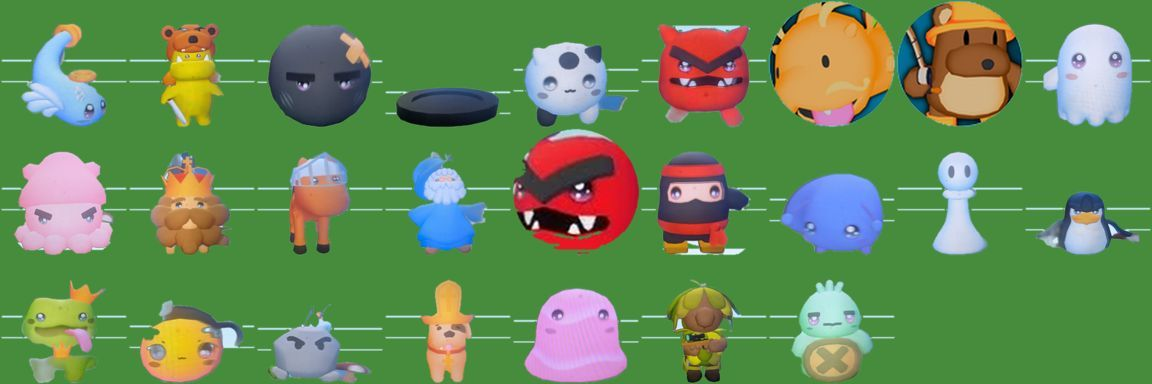
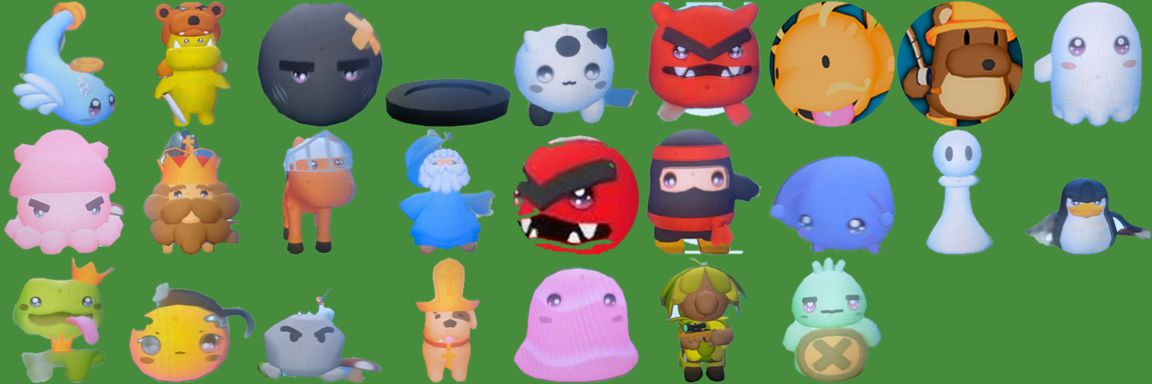
fin-battle: RESUME (cut off) + qa_ui/qa_motion logs + cutout sheet

diff --git a/rebuild/tools/fin_battle/cutout.py b/rebuild/tools/fin_battle/cutout.py
@@ -13,10 +13,10 @@ for f in sorted(glob.glob(SRC + '/*_w.png')):
     for y in range(h):
         px = im[y][inner[y]][:, :3]
         bg[y] = np.median(px, axis=0) if len(px) else bg[y - 1]
-    from scipy.ndimage import median_filter
-    bg = median_filter(bg, size=(21, 1), mode='nearest')
-    d = np.linalg.norm(im[:, :, :3] - bg[:, None, :], axis=2)
-    keep = np.ones((h, w), bool); keep[r >= .835] = False
+    d = np.full((h, w), 1e9)
+    for o in range(-3, 4):
+        b2 = np.roll(bg, o, axis=0); d = np.minimum(d, np.linalg.norm(im[:, :, :3] - b2[:, None, :], axis=2))
+    keep = np.ones((h, w), bool); keep[r >= .79] = False
     # flood fill from the inner ring through background-like pixels
     seen = np.zeros((h, w), bool); q = deque()
     for y, x in zip(*np.where((r > .82) & (r < .86))):
@@ -29,6 +29,9 @@ for f in sorted(glob.glob(SRC + '/*_w.png')):
                 seen[ny, nx] = True; q.append((ny, nx))
     # stray background specks the fill could not reach (enclosed by the ring) go too
     keep &= ~((d < TOL * .8) & (r > .6))
+    from scipy.ndimage import label, binary_opening
+    k2 = binary_opening(keep, iterations=2); lab, n = label(k2)
+    if n: sizes = np.bincount(lab.ravel()); sizes[0] = 0; big = sizes.argmax(); keep = keep & (lab == big) | (keep & np.isin(lab, np.where(sizes > sizes[big] * .15)[0]))
     a = Image.fromarray((keep * 255).astype(np.uint8)).filter(ImageFilter.MinFilter(3)).filter(ImageFilter.GaussianBlur(.7))
     out = Image.fromarray(im.astype(np.uint8)); out.putalpha(a)
     bb = out.getbbox(); out = out.crop(bb) if bb else out

diff --git a/rebuild/research/polish_report.md b/rebuild/research/polish_report.md
@@ -423,7 +423,19 @@ desktop 1366x900 qa_battle3d --slow PASS (fights 2/2, 0 errors; 4 'tap missed ->
 Fix 58076ec: build-data RE_3D now sees CM.battle3d, so Battle Chess keeps its lobby 3D tag (a rebuild of index.js had dropped it).
 Audit notes so far: cu (11 modes): our pieces are round tokens (disc + team ring) while the video shows standing chibi characters with a red outline on enemies -> plan: cutout set (cutout.py) as billboards + team-colour ground ring, island trees/rocks, slightly lower camera.
 robloxTable: video has a blocky Roblox avatar sitting across the table and a dim brick/wood room -> add avatar + walls.
-RESUME 11:20 AM ET: Battle Chess = tested, merging wip/3d-polish -> main next; then audit batch 1 (cu cutouts + robloxTable avatar) on view3d.js (pull main first). Audit baseline shots for jXOg/EqOw/tm24/OFtV/d8pJ/SMOX done, rest running.
+RESUME 11:25 AM ET (CUT OFF, usage out). wip/3d-polish = 134b237 (NOT on main). Contents: 58076ec Battle Chess fixes (tested), 1caf3b6 merge of main, 134b237 untested cu audit WIP.
+Why not on main: qa_ui (1 FAIL 'skins: every piece set is drawn' merida/chessnut/fantasy) and qa_motion (slide mid_frames FAILs on phone+desk) failed on the 11:15 run, box load ~40;
+logs rebuild/research/ref/fin-battle/qa/qa_ui_1120.log, qa_motion_1120.log. These look load-related and unrelated to the branch (it changes only js/fx/battle3d.js, js/fx/view3d.js, tools/*, assets/modes/CxtttdnwNWk/cu3d) - confirm on main itself.
+Next steps, in order:
+1. cd clone, git checkout wip/3d-polish, git pull --no-rebase origin main. Browser-test 134b237: python3 rebuild/tools/fin_battle/shots3d.py <app> 8830 out CxtttdnwNWk,M0Nr98Axpo8,dKBSZUzVQ1E _after (background + poll);
+   compare with rebuild/research/ref/fin-battle/qa/aud_CxtttdnwNWk_before.jpg and sheets/ref_cu.jpg. Check: cutouts stand on tiles, team rings blue(w)/red(b), Giant uses cu3d/Giant.png, tap-select still works
+   (python3 tools/qa_battle3d.py --skip-modes? no: --modes CxtttdnwNWk,M0Nr98Axpo8 --only phone --slow). If bad, git revert 134b237.
+2. Re-run qa_ui + qa_motion on origin/main AND on the branch; if main fails the same way the failures are not ours -> merge wip/3d-polish into main (pull --no-rebase, npm test, npm run lint, npm run sweep, node qa/validate-modes.mjs = hZf3G9Pr1UU only), push main.
+3. Tick 'step 3 Battle Chess headless play + merge' once on main.
+4. Audit batch 2 (view3d.js PRESETS, pull main first): robloxTable EqOwqolOZOo add the blocky Roblox avatar across the table + dim brick/wood room (thumbs/EqOwqolOZOo_1..3.jpg);
+   then compare aud_<id>_before.jpg vs thumbs/<id>*.jpg for robloxSky, luxury, fly, hyper, abyss, dungeon; screenshots still missing for sGXmiyvZDE4, iqfHW2_sMmc, zDFsnRE_Gig, xlErokL2-4c, hZf3G9Pr1UU, CONozr99agQ, xvlHij1tgk8 (run shots3d.py).
+   hZf3G9Pr1UU (3D Glasses) is also in the lobby 3D tab (26 = 23 audit + 2 FPS + Battle Chess); its validate error is missing assets/pieces/staunton3d/*.png.
+Hashes: wip/3d-polish 58076ec (tested Battle Chess), 1caf3b6 (main merged), 134b237 (WIP); cu cutout tool tools/cu3d_cutout.py (main repo) = rebuild/tools/fin_battle/cutout.py.
 
 
 ## fin-fps
